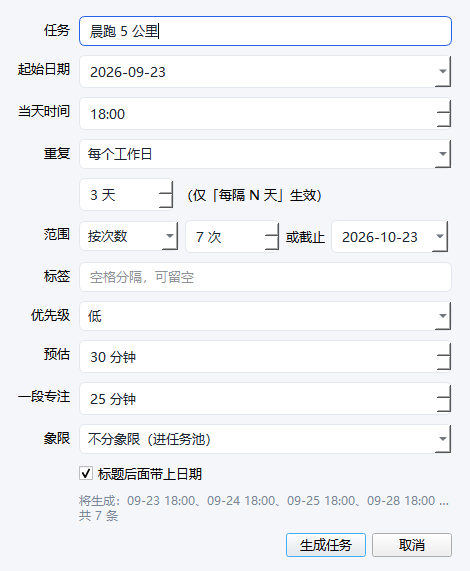
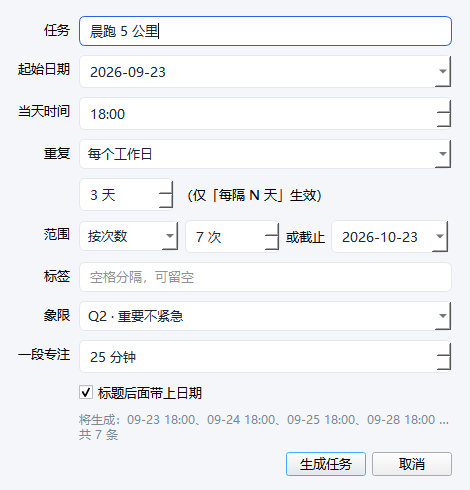
修掉新建/编辑/批量排期点了没反应（闪退）
PySide6 6.11 移除了 QDialog.Accept，三处 dialog.exec() 的结果比对抛
AttributeError，任务因此根本没写库；改用 QDialog.DialogCode.Accepted
与 StandardButton 全限定名，并补一份 error.log 落盘，无控制台打包后
也能查到报错。

表单按反馈瘦身：去掉优先级与预估总时长，象限改为必选（未选标红拦截）。
四象限全空时给出下一步提示，任务行不再显示已无入口的预估时长。

diff --git a/ui/task_dialog.py b/ui/task_dialog.py
@@ -12,6 +12,7 @@ from models import QUADRANTS, STATUS_DOING, STATUS_DONE, STATUS_TODO, Task
 from ui import theme
 
 STATUS_CHOICES = [("待办", STATUS_TODO), ("进行中", STATUS_DOING), ("已完成", STATUS_DONE)]
+UNSET = "__unset__"
 
 
 def tags_from_text(text: str) -> list[str]:
@@ -81,17 +82,6 @@ class TaskDialog(QDialog):
         if not existing:
             self.tag_chips.hide()
 
-        priority = QComboBox()
-        for label, value in (("低", 1), ("中", 2), ("高", 3)):
-            priority.addItem(label, value)
-        priority.setCurrentIndex({"1": 0, "2": 1, "3": 2}.get(str(task.priority if task else preset.get("priority", 1)), 0))
-
-        est = QSpinBox()
-        est.setRange(5, 1440)
-        est.setSingleStep(15)
-        est.setSuffix(" 分钟")
-        est.setValue(int(task.est_min if task else preset.get("est_min") or 60))
-
         focus = QSpinBox()
         focus.setRange(0, 480)
         focus.setSingleStep(5)
@@ -101,12 +91,16 @@ class TaskDialog(QDialog):
         self.focus_hint = QLabel(f"0 表示跟随默认（当前默认 {default_min} 分钟）")
 
         quadrant = QComboBox()
-        quadrant.addItem("还没分派", None)
+        quadrant.addItem("请选择象限…", UNSET)
+        quadrant.addItem("暂不分派，放任务池", None)
         for key, (label, _) in QUADRANTS.items():
             quadrant.addItem(f"Q{key} · {label}", key)
         wanted = task.quadrant if task else preset.get("quadrant")
-        index = quadrant.findData(wanted)
+        index = quadrant.findData(wanted) if task or preset.get("quadrant") else 0
         quadrant.setCurrentIndex(index if index >= 0 else 0)
+        self.quadrant_hint = QLabel("必须先定一格才能保存；没想好就选「暂不分派，放任务池」，之后拖拽调整。")
+        self.quadrant_hint.setObjectName("muted")
+        self.quadrant_hint.setStyleSheet("font-size: 11px;")
 
         status = QComboBox()
         for label, value in STATUS_CHOICES:
@@ -122,22 +116,20 @@ class TaskDialog(QDialog):
         form.addRow("截止时间", self._pair(due_on, due_at))
         form.addRow("标签", tag_input)
         form.addRow("", self.tag_chips)
-        form.addRow("优先级", priority)
-        form.addRow("预估总时长", est)
+        form.addRow("象限", quadrant)
+        form.addRow("", self.quadrant_hint)
         form.addRow("一段专注", focus)
         form.addRow("", self.focus_hint)
-        form.addRow("象限", quadrant)
         if task:
             form.addRow("状态", status)
 
         self.widgets = {"title": title, "start_on": start_on, "start_at": start_at,
                         "due_on": due_on, "due_at": due_at, "tags": tag_input,
-                        "priority": priority, "est": est, "focus": focus,
-                        "quadrant": quadrant, "status": status}
+                        "focus": focus, "quadrant": quadrant, "status": status}
 
-        buttons = QDialogButtonBox(QDialogButtonBox.Save | QDialogButtonBox.Cancel)
-        buttons.button(QDialogButtonBox.Save).setText("保存")
-        buttons.button(QDialogButtonBox.Cancel).setText("取消")
+        buttons = QDialogButtonBox(QDialogButtonBox.StandardButton.Save | QDialogButtonBox.StandardButton.Cancel)
+        buttons.button(QDialogButtonBox.StandardButton.Save).setText("保存")
+        buttons.button(QDialogButtonBox.StandardButton.Cancel).setText("取消")
         buttons.accepted.connect(self._accept)
         buttons.rejected.connect(self.reject)
         row = QHBoxLayout()
@@ -187,17 +179,24 @@ class TaskDialog(QDialog):
             "start": self.widgets["start_at"].dateTime().toPython() if self.widgets["start_on"].isChecked() else None,
             "due": self.widgets["due_at"].dateTime().toPython() if self.widgets["due_on"].isChecked() else None,
             "tags": tags,
-            "priority": int(self.widgets["priority"].currentData()),
-            "est_min": int(self.widgets["est"].value()),
             "focus_min": focus or None,
-            "quadrant": self.widgets["quadrant"].currentData(),
+            "quadrant": None if self.widgets["quadrant"].currentData() == UNSET
+            else self.widgets["quadrant"].currentData(),
             "status": self.widgets["status"].currentData(),
         }
 
     def _accept(self) -> None:
-        if not self.widgets["title"].text().strip():
-            self.widgets["title"].setFocus()
-            self.widgets["title"].setStyleSheet(f"border: 1px solid {theme.DANGER};")
+        title = self.widgets["title"]
+        if not title.text().strip():
+            title.setFocus()
+            title.setStyleSheet(f"border: 1px solid {theme.DANGER};")
+            return
+        quadrant = self.widgets["quadrant"]
+        if quadrant.currentData() == UNSET:
+            quadrant.setFocus()
+            quadrant.setStyleSheet(f"border: 1px solid {theme.DANGER};")
+            self.quadrant_hint.setText("必须先选一个象限（或选「暂不分派，放任务池」）才能保存。")
+            self.quadrant_hint.setStyleSheet("font-size: 11px; color: %s;" % theme.DANGER)
             return
         self.accept()
 

diff --git a/ui/schedule_dialog.py b/ui/schedule_dialog.py
@@ -10,6 +10,7 @@ from PySide6.QtWidgets import (
 )
 
 from models import QUADRANTS
+from ui.task_dialog import UNSET
 
 MODES = [("每天", "daily"), ("每隔 N 天", "every"), ("每个工作日", "workday"), ("每周固定几天", "weekday")]
 WEEKDAYS = ["周一", "周二", "周三", "周四", "周五", "周六", "周日"]
@@ -68,23 +69,17 @@ class ScheduleDialog(QDialog):
 
         self.tags = QLineEdit()
         self.tags.setPlaceholderText("空格分隔，可留空")
-        self.priority = QComboBox()
-        for label, value in (("低", 1), ("中", 2), ("高", 3)):
-            self.priority.addItem(label, value)
-        self.est = QSpinBox()
-        self.est.setRange(5, 1440)
-        self.est.setSingleStep(15)
-        self.est.setSuffix(" 分钟")
-        self.est.setValue(30)
         self.focus = QSpinBox()
         self.focus.setRange(0, 480)
         self.focus.setSingleStep(5)
         self.focus.setSuffix(" 分钟")
         self.focus.setValue(int(self.store.settings["focus_min"]))
         self.quadrant = QComboBox()
+        self.quadrant.addItem("请选择象限…", UNSET)
         self.quadrant.addItem("不分象限（进任务池）", None)
         for key, (label, _) in QUADRANTS.items():
             self.quadrant.addItem(f"Q{key} · {label}", key)
+        self.quadrant.setCurrentIndex(0)
         self.suffix_date = QCheckBox("标题后面带上日期")
         self.suffix_date.setChecked(True)
 
@@ -119,16 +114,14 @@ class ScheduleDialog(QDialog):
         form.addRow("", self.weekday_row)
         form.addRow("范围", self._wrap(end_row))
         form.addRow("标签", self.tags)
-        form.addRow("优先级", self.priority)
-        form.addRow("预估", self.est)
-        form.addRow("一段专注", self.focus)
         form.addRow("象限", self.quadrant)
+        form.addRow("一段专注", self.focus)
         form.addRow("", self.suffix_date)
         form.addRow("", self.preview)
 
-        buttons = QDialogButtonBox(QDialogButtonBox.Ok | QDialogButtonBox.Cancel)
-        buttons.button(QDialogButtonBox.Ok).setText("生成任务")
-        buttons.button(QDialogButtonBox.Cancel).setText("取消")
+        buttons = QDialogButtonBox(QDialogButtonBox.StandardButton.Ok | QDialogButtonBox.StandardButton.Cancel)
+        buttons.button(QDialogButtonBox.StandardButton.Ok).setText("生成任务")
+        buttons.button(QDialogButtonBox.StandardButton.Cancel).setText("取消")
         buttons.accepted.connect(self._accept)
         buttons.rejected.connect(self.reject)
 
@@ -139,7 +132,7 @@ class ScheduleDialog(QDialog):
         box.addWidget(buttons)
 
         for widget in (self.title, self.start_on, self.at_time, self.interval,
-                       self.repeat_times, self.until, self.tags, self.est, self.focus):
+                       self.repeat_times, self.until, self.tags, self.focus):
             for signal in ("textChanged", "dateChanged", "dateTimeChanged", "valueChanged"):
                 if hasattr(widget, signal):
                     getattr(widget, signal).connect(self._preview)
@@ -198,12 +191,12 @@ class ScheduleDialog(QDialog):
         tags = [tag for tag in self.tags.text().replace("#", " ").replace("，", " ").split() if tag]
         focus = self.focus.value()
         rows = []
+        quadrant = self.quadrant.currentData()
         for stamp in self.dates():
             name = f"{title} {stamp:%m-%d}" if self.suffix_date.isChecked() else title
             rows.append({"title": name, "due": stamp, "tags": list(tags),
-                         "priority": int(self.priority.currentData()),
-                         "est_min": self.est.value(), "focus_min": focus or None,
-                         "quadrant": self.quadrant.currentData()})
+                         "focus_min": focus or None,
+                         "quadrant": None if quadrant == UNSET else quadrant})
         return rows
 
     def _preview(self, *_args) -> None:
@@ -216,6 +209,10 @@ class ScheduleDialog(QDialog):
         self.preview.setText(f"将生成：{head}{more}")
 
     def _accept(self) -> None:
+        if self.quadrant.currentData() == UNSET:
+            self.quadrant.setStyleSheet("border: 1px solid #e0574f;")
+            self.preview.setText("先选一个象限（或选「不分象限（进任务池）」）再生成。")
+            return
         if not self.dates():
             self._preview()
             return

diff --git a/ui/main_window.py b/ui/main_window.py
@@ -4,7 +4,7 @@ from datetime import datetime
 
 from PySide6.QtCore import Qt, QTimer, Signal
 from PySide6.QtWidgets import (
-    QFrame, QHBoxLayout, QLabel, QLineEdit, QPushButton,
+    QDialog, QFrame, QHBoxLayout, QLabel, QLineEdit, QPushButton,
     QStackedWidget, QVBoxLayout, QWidget,
 )
 
@@ -221,7 +221,7 @@ class MainWindow(QWidget):
         box.setSpacing(4)
         self.quick = QLineEdit()
         self.quick.setObjectName("quick")
-        self.quick.setPlaceholderText("快速添加：明天18:00 写项目周报 #工作 !3 90min   （回车保存）")
+        self.quick.setPlaceholderText("快速添加：明天18:00 写项目周报 #工作   （回车保存）")
         self.quick.returnPressed.connect(self._add_quick)
         self.new_task = QPushButton("＋ 新建任务")
         self.new_task.setObjectName("ghostBtn")
@@ -233,7 +233,7 @@ class MainWindow(QWidget):
         row.setSpacing(8)
         row.addWidget(self.quick, 1)
         row.addWidget(self.new_task)
-        tip = QLabel("支持：今天 / 明天 / 后天 / 周五 / 9-28 / 18:00 ；#标签 ；!1-!3 优先级 ；90min 或 1.5h 预估时长")
+        tip = QLabel("支持：今天 / 明天 / 后天 / 周五 / 9-28 / 2026-10-03 08:30 ；#标签")
         tip.setObjectName("muted")
         tip.setStyleSheet("font-size: 11px; padding-bottom: 8px;")
         box.addLayout(row)
@@ -267,7 +267,7 @@ class MainWindow(QWidget):
 
     def open_settings(self) -> None:
         dialog = SettingsDialog(self.store, self.window())
-        if dialog.exec():
+        if dialog.exec() == QDialog.DialogCode.Accepted:
             dialog.apply()
         self.calendar_view.refresh()
         self.refresh()
@@ -290,7 +290,7 @@ class MainWindow(QWidget):
     def _edit_task(self, task_id: str | None) -> None:
         task = self.store.get(task_id) if task_id else None
         dialog = TaskDialog(self.store, task, parent=self.window())
-        if dialog.exec() != TaskDialog.Accept:
+        if dialog.exec() != QDialog.DialogCode.Accepted:
             return
         if dialog.delete_requested:
             self.refresh()
@@ -329,7 +329,7 @@ class MainWindow(QWidget):
 
     def _open_schedule(self) -> None:
         dialog = ScheduleDialog(self.store, self.window())
-        if dialog.exec() == ScheduleDialog.Accept:
+        if dialog.exec() == QDialog.DialogCode.Accepted:
             self.store.add_many(dialog.rows())
             self.refresh()
 

diff --git a/ui/quadrant_view.py b/ui/quadrant_view.py
@@ -68,6 +68,7 @@ class QuadCell(QFrame):
         outer.addWidget(self.scroll, 1)
         self._empty = QLabel("把任务拖进来。")
         self._empty.setObjectName("muted")
+        self._empty.setWordWrap(True)
         self._empty.setStyleSheet("font-size: 11px; padding: 6px 2px;")
         self.body.addWidget(self._empty)
         self.body.addStretch(1)
@@ -82,11 +83,13 @@ class QuadCell(QFrame):
                 widget.setParent(None)
                 widget.deleteLater()
 
-    def show_tasks(self, tasks: list[Task], now: datetime, active_id: str | None, store) -> None:
+    def show_tasks(self, tasks: list[Task], now: datetime, active_id: str | None, store,
+                   empty_hint: str | None = None) -> None:
         self.clear_rows()
         self.count.setText(str(len(tasks)))
         self._empty.setVisible(not tasks)
         if not tasks:
+            self._empty.setText(empty_hint or "把任务拖进来。")
             self.body.addWidget(self._empty)
             self.body.addStretch(1)
             return
@@ -249,8 +252,10 @@ class QuadrantView(QWidget):
                 cell.tick(now)
             return
         self._key = key
+        hint = ("这里还没有待办：任务都做完的话去「月历」回看，"
+                "要加新的点右上「＋ 新建任务」或在下面输入框敲一句回车。") if not any(groups.values()) else None
         for quadrant, cell in self.cells.items():
-            cell.show_tasks(groups[quadrant], now, active_task_id, self.store)
+            cell.show_tasks(groups[quadrant], now, active_task_id, self.store, hint)
         planned = sum(len(groups[q]) for q in (1, 2, 3, 4))
         self.footer.setText(f"已分象限 {planned} 条 · 池子里 {len(groups[None])} 条 · "
                             f"已完成 {getattr(self, '_done_count', 0)} 条在「月历」里回看")

diff --git a/main.py b/main.py
@@ -1,6 +1,8 @@
 from __future__ import annotations
 
 import sys
+import traceback
+from datetime import datetime
 from pathlib import Path
 
 sys.path.insert(0, str(Path(__file__).resolve().parent))
@@ -14,6 +16,23 @@ from ui import theme
 from ui.floating_timer import FloatingTimer
 from ui.main_window import MainWindow
 from ui.timer import MODE_FOCUS, MODE_IDLE, FocusTimer
+
+
+def install_crash_log(log_path: Path) -> None:
+    """打包成无控制台的 exe 后，界面里的报错会静默闪退；落一份 error.log 才查得出来。"""
+
+    def hook(kind, value, tb):
+        text = "".join(traceback.format_exception(kind, value, tb))
+        try:
+            if log_path.exists() and log_path.stat().st_size > 200_000:
+                log_path.unlink()
+            with log_path.open("a", encoding="utf-8") as handle:
+                handle.write(f"\n[{datetime.now():%Y-%m-%d %H:%M:%S}]\n{text}")
+        except OSError:
+            pass
+        print(text, file=sys.stderr)
+
+    sys.excepthook = hook
 
 
 def make_icon(ring: bool = True) -> QIcon:
@@ -182,6 +201,7 @@ def main() -> int:
     app.setStyle("Fusion")
     app.setStyleSheet(theme.build_qss())
     store = Store()
+    install_crash_log(store.data_path.parent / "error.log")
     window = TimeDeck(store)
     window.reveal()
 

diff --git a/shot.py b/shot.py
@@ -102,13 +102,17 @@ def main() -> int:
     save(window, out / "05-quadrant.png")
 
     from ui.task_dialog import TaskDialog
-    dialog = TaskDialog(store, store.tasks[1], window)
+    dialog = TaskDialog(store, None, parent=window)
+    dialog.widgets["title"].setText("写项目周报")
+    dialog.widgets["tags"].setText("工作")
+    dialog.widgets["due_on"].setChecked(True)
     save(dialog, out / "06-task-dialog.png")
 
     from ui.schedule_dialog import ScheduleDialog
-    schedule = ScheduleDialog(store, window)
+    schedule = ScheduleDialog(store, parent=window)
     schedule.title.setText("晨跑 5 公里")
     schedule.mode.setCurrentIndex(2)
+    schedule.quadrant.setCurrentIndex(3)
     schedule.weekday_boxes[0].setChecked(True)
     schedule.weekday_boxes[2].setChecked(True)
     schedule.weekday_boxes[4].setChecked(True)

diff --git a/ui/settings_dialog.py b/ui/settings_dialog.py
@@ -84,9 +84,9 @@ class SettingsDialog(QDialog):
         layout.addLayout(backup)
         layout.addStretch(1)
 
-        buttons = QDialogButtonBox(QDialogButtonBox.Save | QDialogButtonBox.Cancel)
-        buttons.button(QDialogButtonBox.Save).setText("保存")
-        buttons.button(QDialogButtonBox.Cancel).setText("取消")
+        buttons = QDialogButtonBox(QDialogButtonBox.StandardButton.Save | QDialogButtonBox.StandardButton.Cancel)
+        buttons.button(QDialogButtonBox.StandardButton.Save).setText("保存")
+        buttons.button(QDialogButtonBox.StandardButton.Cancel).setText("取消")
         buttons.accepted.connect(self.accept)
         buttons.rejected.connect(self.reject)
         layout.addWidget(buttons)

diff --git a/ui/today_view.py b/ui/today_view.py
@@ -219,7 +219,7 @@ class TaskRow(QFrame):
             if self.task.status == STATUS_DOING:
                 parts.append("进行中")
             return parts
-        parts.append(f"已用 {hours_text(self.task.spent_min)}/预估 {hours_text(self.task.est_min)}")
+        parts.append(f"已用 {hours_text(self.task.spent_min)}")
         if self.task.status == STATUS_DOING:
             parts.append("进行中")
         return parts

diff --git a/README.md b/README.md
@@ -17,10 +17,10 @@
 ## 用法要点
 
 - **快速添加**：顶部输入框看懂自然语言，例如
-  `明天18:00 写项目周报 #工作 !3 90min`
-  （时间、标题、`#标签`、`!1~3` 优先级、`90min` 预估时长）
+  `明天18:00 写项目周报 #工作`
+  （时间、标题、`#标签`，回车即入库）
 - **拖拽定象限**：想用哪条轴判断紧急程度由你自己定——把任务卡拖进某个象限即可，拖回上方「任务池」就是取消分类。
-- **单条编辑**：双击任意任务（未开始 / 进行中 / 已完成都能改）打开表单，开始时间、截止时间、标签、优先级、预估总时长、一段专注时长、象限、状态全部可选。
+- **单条编辑**：双击任意任务（未开始 / 进行中 / 已完成都能改）打开表单，开始时间、截止时间、标签、一段专注时长、状态都可选；**象限必选**，没定象限不给保存。
 - **批量排期**：四象限页的「批量排期…」按重复规则一次生成一整段时间的任务——每天 / 每隔 N 天 / 每个工作日 / 每周固定几天，配合「生成 N 条」或「直到某日」，右侧实时预览落在哪几天。
 - **专注计时器**：时长选在**任务上**（每条任务的「N 分 ▾」按钮，15/25/45/60 或自定义），设置里的默认值只作为新任务的兜底。
 - **悬浮窗**：右下角无边框置顶倒计时，不抢焦点。按住可拖到屏幕任意位置，四条边都能贴合吸附，露出约 4px 便于再抓回来；悬停展开进度条与按钮。
@@ -33,6 +33,7 @@
 ```
 
 普通文本 JSON，每次写入前滚动保留 `data.json.bak0 ~ bak9` 备份。删掉这个文件等于重置应用。
+同目录下的 `error.log` 记录界面里抛出的异常（便携版没有控制台，闪退靠它定位），超过 200KB 自动重开。
 
 ## 从源码运行
 
